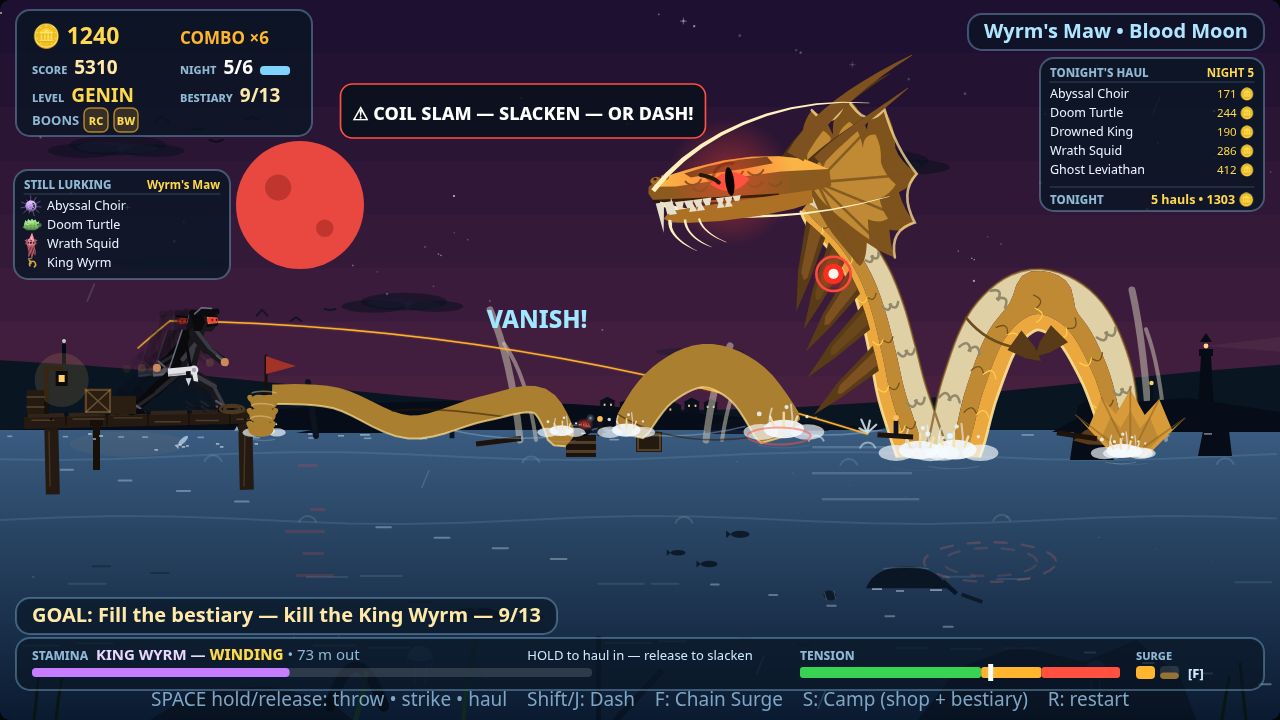
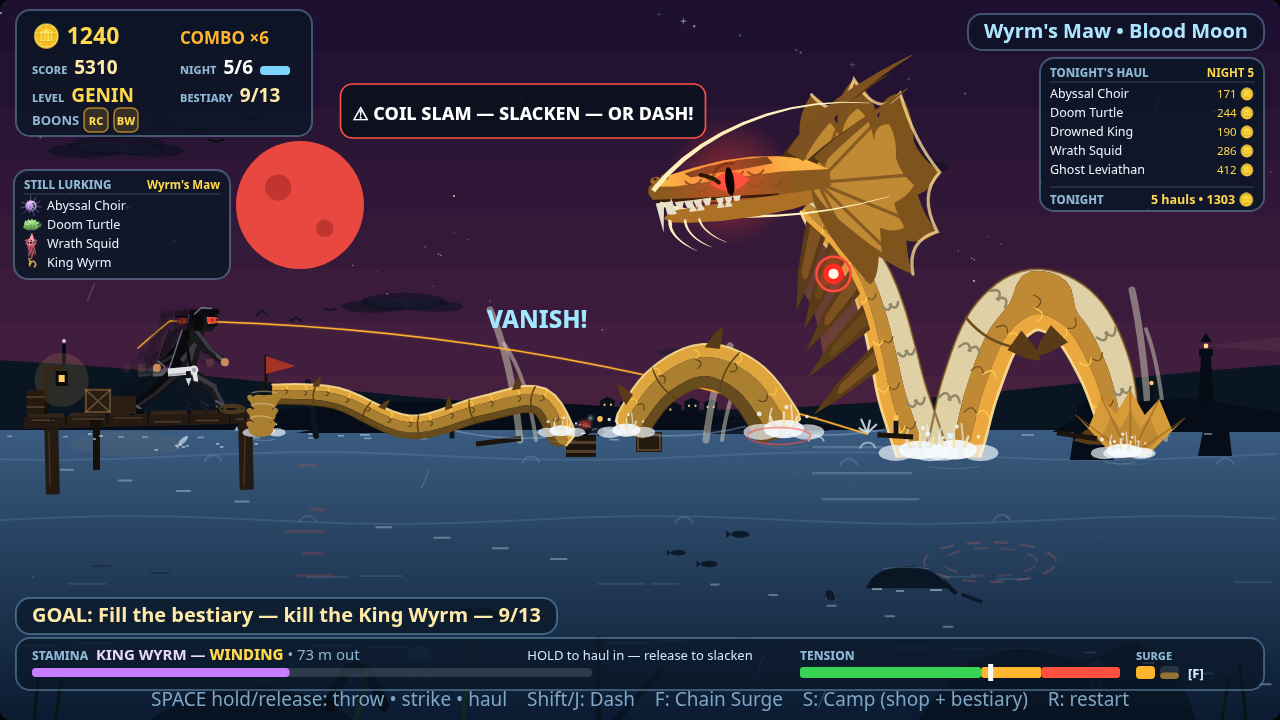
WYRMWAKE: wyrm refinement — no flat segments

Changed region(s): [[0.2188, 0.4583, 0.625, 0.6111], [0.625, 0.1222, 0.75, 0.4889], [0.625, 0.275, 0.6562, 0.3056]]

diff --git a/game/src/theatre.js b/game/src/theatre.js
@@ -5,7 +5,7 @@ import { MONSTERS } from './data.js';
 import { ABILITY_INFO } from './abilities.js';
 import { WATER_Y, lurePos, calloutX } from './render.js';
 import { drawFishShape } from './vendor/shapes.js';
-import { drawWyrmGlyph, GOLD, blendCrossing } from './vendor/wyrm.js';
+import { drawWyrmGlyph, GOLD, blendCrossing, paintSwimBody } from './vendor/wyrm.js';
 import { drawSeaTerrain } from './terrain.js';
 import { calloutLines } from './fight.js';
 
@@ -117,28 +117,10 @@ function loopRibbon(ctx, pts, w0, w1, tipStart = 1, tipEnd = 1, tipLen = 0.22) {
     L.push([S[i][0] - dy * w, S[i][1] + dx * w]);
     R.push([S[i][0] + dy * w, S[i][1] - dx * w]);
   }
-  ctx.fillStyle = GOLD.water;
-  ctx.beginPath();
-  [...L, ...R.reverse()].forEach((p, i) => i ? ctx.lineTo(p[0], p[1]) : ctx.moveTo(p[0], p[1]));
-  ctx.closePath(); ctx.fill();
-  // scale bands across the back — bowed along the curve and spaced by
-  // arc length, each a dark seam with a lit lip, never a straight slash
-  ctx.lineCap = 'round';
-  let acc = 0;
-  for (let i = 2; i < S.length - 2; i++) {
-    acc += Math.hypot(S[i][0] - S[i - 1][0], S[i][1] - S[i - 1][1]);
-    if (acc < 200) continue;
-    acc = 0;
-    const a = S[i - 1], b = S[i + 1];
-    let dx = b[0] - a[0], dy = b[1] - a[1];
-    const m = Math.hypot(dx, dy) || 1; dx /= m; dy /= m;
-    const w = Math.hypot(L[i][0] - R[i][0], L[i][1] - R[i][1]) / 2;
-    const mx = (L[i][0] + R[i][0]) / 2 + dx * w * 0.38, my = (L[i][1] + R[i][1]) / 2 + dy * w * 0.38;
-    ctx.strokeStyle = 'rgba(46,26,4,0.55)'; ctx.lineWidth = 1.6;
-    ctx.beginPath(); ctx.moveTo(L[i][0], L[i][1]); ctx.quadraticCurveTo(mx, my, R[i][0], R[i][1]); ctx.stroke();
-  }
-  ctx.strokeStyle = 'rgba(255,226,150,0.7)'; ctx.lineWidth = 2;
-  ctx.beginPath(); R.forEach((p, i) => i ? ctx.lineTo(p[0], p[1]) : ctx.moveTo(p[0], p[1])); ctx.stroke();
+  // the rich skin — two-tone shading, a scallop field, bowed seams
+  // and crest blades — is painted by the wyrm's own painter, so a
+  // swimming back wears the same hide as the king himself
+  paintSwimBody(ctx, S, L, R, WATER_Y);
 }
 
 // --- the wyrm, close: his body swims to the dock and coils its post ---
